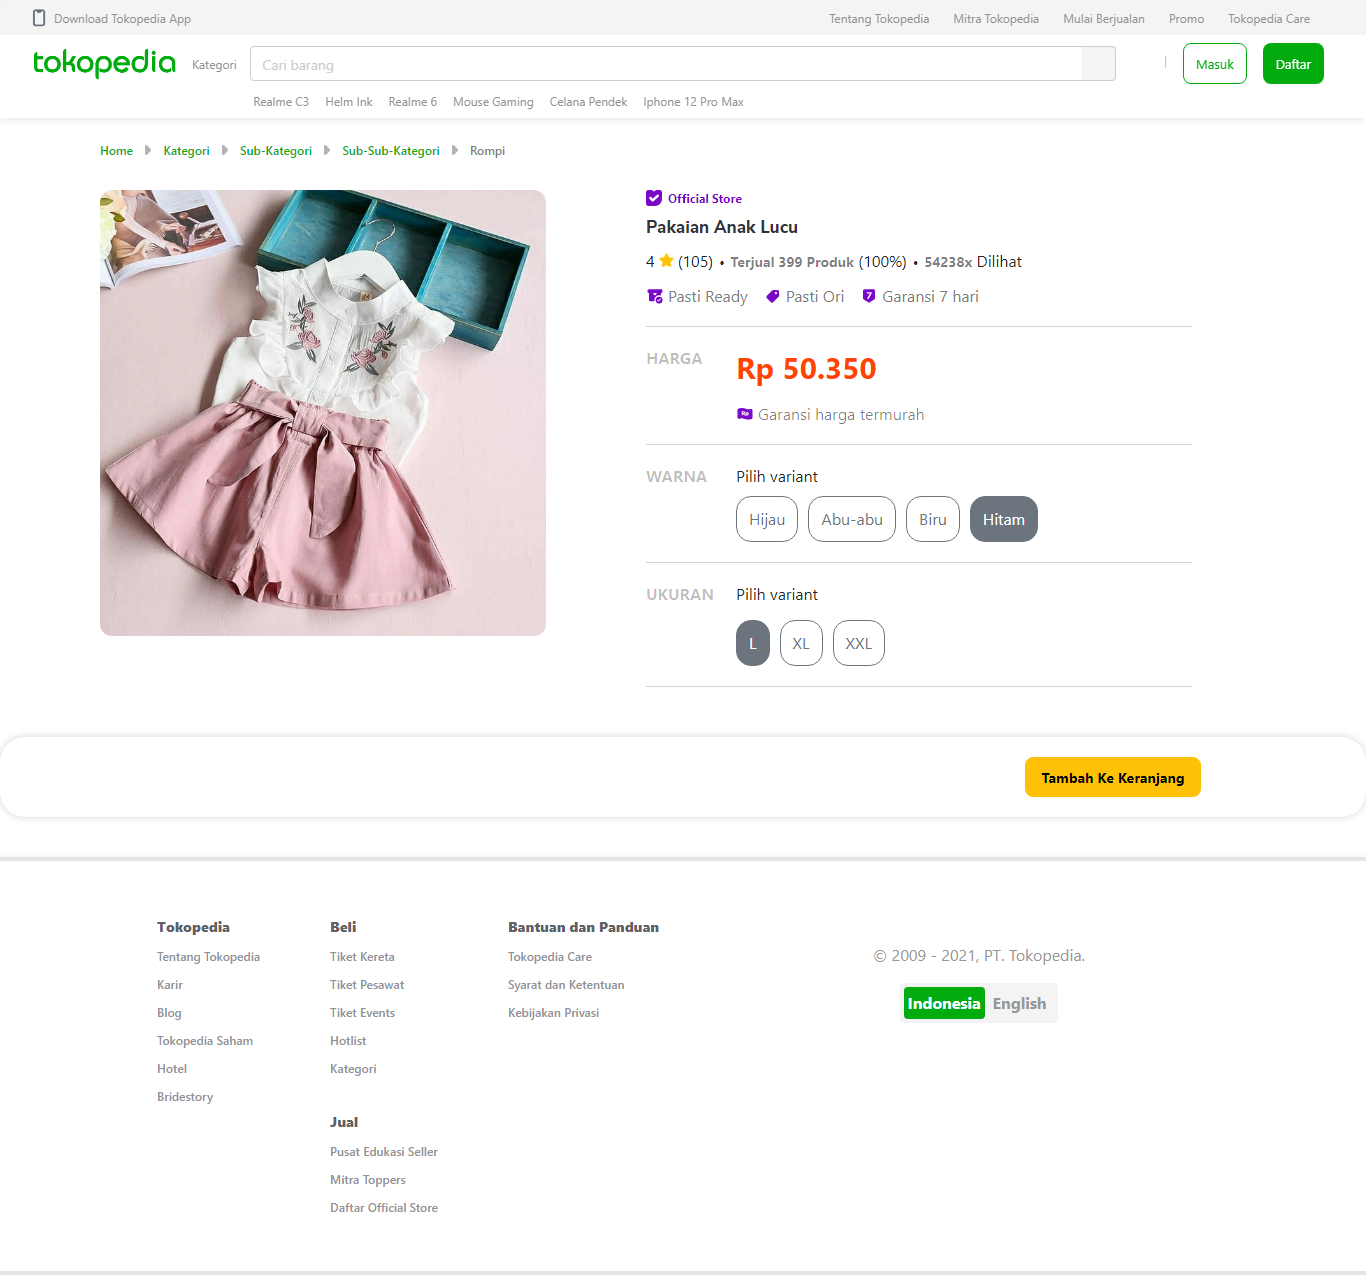
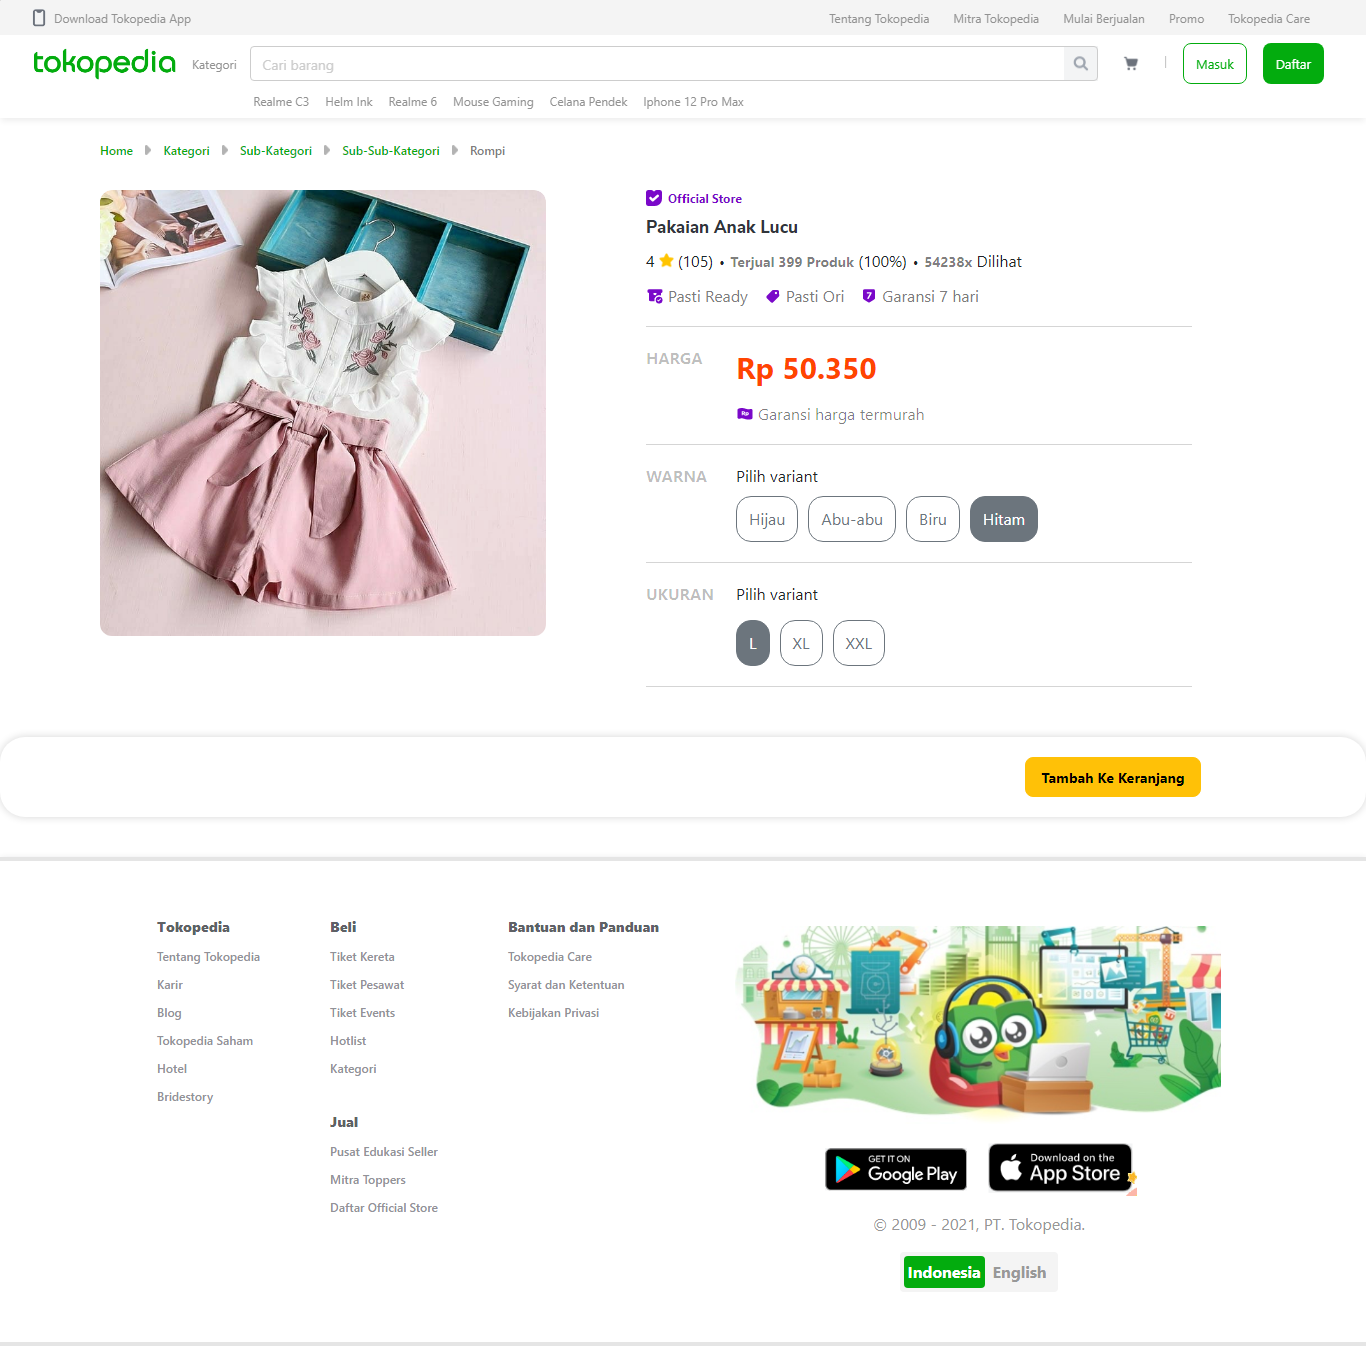
fixing readme

diff --git a/src/components/Footer.js b/src/components/Footer.js
@@ -35,10 +35,10 @@ class Footer extends Component {
             <li>Kebijakan Privasi</li>
           </div>
           <div className='four d-flex flex-column align-items-center'>
-            <img width='500px' src="img/21.png" alt=""/>
+            <img width='500px' src="/img/21.png" alt=""/>
             <div className='d-flex mt-3'>
-              <img className='me-3' width='150px' src="img/22.png" alt=""/>
-              <img width='150px' src="img/23.png" alt=""/>
+              <img className='me-3' width='150px' src="/img/22.png" alt=""/>
+              <img width='150px' src="/img/23.png" alt=""/>
             </div>
             <span className='mt-3' style={{color: '#989898'}}>© 2009 - 2021, PT. Tokopedia.</span>
             <div className='d-flex align-items-center mt-3 p-1 rounded' style={{backgroundColor:'#f4f4f4'}}>

diff --git a/src/components/Header.js b/src/components/Header.js
@@ -30,12 +30,12 @@ class Header extends Component {
             <div className='wrap-search'>
               <input type="text" className='form-control' placeholder='Cari barang' data-bs-toggle="modal" data-bs-target="#exampleModal"/>
               <div className='wrap-icon-search'>
-                <img className='img-search' src="img/3.png" alt=""/>
+                <img className='img-search' src="/img/3.png" alt=""/>
               </div>
             
             </div>
             <div className='wrap-img-shop mx-3'>
-              <img className='img-shop' src="img/4.png" alt=""/>
+              <img className='img-shop' src="/img/4.png" alt=""/>
             </div>
 
             <span className='me-3 line'>|</span>
